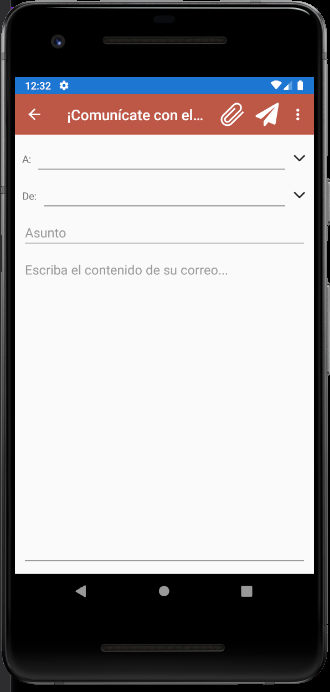
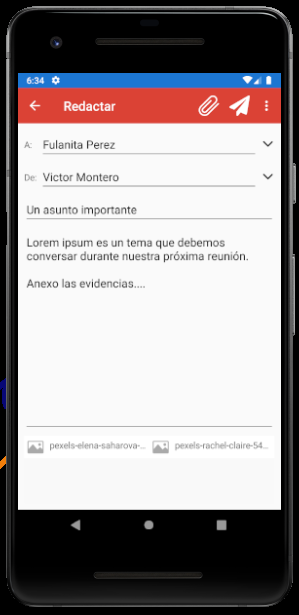
removed unnecesary layouts and updated readme

Changed region(s): [[0.0, 0.0, 1.0, 1.0], [0.5117, 0.7106, 0.8729, 0.7415], [0.0903, 0.7106, 0.4515, 0.7415]]

diff --git a/MobileDev03.VMail/MobileDev03.VMail/Views/AddMailPage.xaml b/MobileDev03.VMail/MobileDev03.VMail/Views/AddMailPage.xaml
@@ -11,46 +11,50 @@
     </ContentPage.ToolbarItems>
     <Grid Padding="10"
                     RowDefinitions="Auto,Auto,Auto,3*,*"
-                    ColumnDefinitions="*">
+                    ColumnDefinitions="Auto,*,Auto">
         <!-- Recipient Row -->
-        <StackLayout Grid.Row="0" Orientation="Horizontal" BackgroundColor="Yellow" 
-                     HorizontalOptions="FillAndExpand">
-            <Label Text="A:"
-                HorizontalOptions="Start" VerticalOptions="CenterAndExpand"/>
-            <Entry Text="{Binding Recipient}"
-                HorizontalOptions="FillAndExpand" VerticalOptions="CenterAndExpand"/>
-            <Image Source="ChevronIcon" WidthRequest="20" HeightRequest="15"
-                HorizontalOptions="End" VerticalOptions="CenterAndExpand"/>
-        </StackLayout>
+        <Label Text="A:" Grid.Row="0" Grid.Column="0"
+            HorizontalOptions="Start" VerticalOptions="CenterAndExpand"/>
+        <Entry Text="{Binding Recipient}" Grid.Row="0" Grid.Column="1"
+            HorizontalOptions="FillAndExpand" VerticalOptions="CenterAndExpand"/>
+        <Image Source="ChevronIcon" Grid.Row="0" Grid.Column="2" WidthRequest="20" HeightRequest="15"
+            HorizontalOptions="End" VerticalOptions="CenterAndExpand"/>
 
         <!-- Sender Row -->
-        <StackLayout Grid.Row="1" Orientation="Horizontal">
-            <Label Text="De:"
-                HorizontalOptions="Start" VerticalOptions="CenterAndExpand"/>
-            <Entry Text="{Binding Sender}"
-                HorizontalOptions="FillAndExpand" VerticalOptions="CenterAndExpand"/>
-            <Image Source="ChevronIcon" WidthRequest="20" HeightRequest="15"
-                HorizontalOptions="End" VerticalOptions="CenterAndExpand"/>
-        </StackLayout>
+        <Label Text="De:" Grid.Row="1" Grid.Column="0"
+            HorizontalOptions="Start" VerticalOptions="CenterAndExpand"/>
+        <Entry Text="{Binding Sender}"  Grid.Row="1" Grid.Column="1"
+            HorizontalOptions="FillAndExpand" VerticalOptions="CenterAndExpand"/>
+        <Image Source="ChevronIcon" WidthRequest="20" HeightRequest="15" Grid.Row="1" Grid.Column="2" 
+            HorizontalOptions="End" VerticalOptions="CenterAndExpand"/>
 
         <!-- Subject Row -->
-        <Entry Grid.Row="2" Placeholder="Asunto" Text="{Binding Subject}"
+        <Entry Grid.Row="2" Grid.Column="0" Grid.ColumnSpan="3" Placeholder="Asunto" Text="{Binding Subject}"
                 HorizontalOptions="FillAndExpand" VerticalOptions="CenterAndExpand"/>
+        
         <!-- Content Row -->
         <Editor
-            Grid.Row="3"
+            Grid.Row="3" Grid.Column="0" Grid.ColumnSpan="3" 
             HorizontalOptions="FillAndExpand"
             VerticalOptions="FillAndExpand"
             Text="{Binding Body}"
             Placeholder="Escriba el contenido de su correo..."/>
+        
         <!-- Attachments Field-->
-        <CollectionView Grid.Row="4" ItemsSource="{Binding Attachments}" SelectionMode="Single" VerticalOptions="End">
+        <CollectionView Grid.Row="4" Grid.Column="0" Grid.ColumnSpan="3" ItemsSource="{Binding Attachments}" SelectionMode="Single" VerticalOptions="End">
             <CollectionView.ItemsLayout>
                 <GridItemsLayout Orientation="Vertical" Span="2"/>
             </CollectionView.ItemsLayout>
             <CollectionView.ItemTemplate>
                 <DataTemplate>
-                    <SwipeView>
+                    <SwipeView BackgroundColor="White">
+                        <SwipeView.LeftItems>
+                            <SwipeItem
+                                    Text="VER"
+                                    BackgroundColor="LightGreen"
+                                    Command="{Binding Source={x:Reference addMailPage}, Path=BindingContext.ViewImageCommand}"
+                                    CommandParameter="{Binding}"/>
+                        </SwipeView.LeftItems>
                         <SwipeView.RightItems>
                             <SwipeItem
                                     Text="REMOVER"

diff --git a/MobileDev03.VMail/MobileDev03.VMail/Views/ReadMailPage.xaml b/MobileDev03.VMail/MobileDev03.VMail/Views/ReadMailPage.xaml
@@ -39,14 +39,14 @@
             </CollectionView.ItemsLayout>
             <CollectionView.ItemTemplate>
                 <DataTemplate>
-                    <SwipeView>
-                        <SwipeView.RightItems>
+                    <SwipeView BackgroundColor="White">
+                        <SwipeView.LeftItems>
                             <SwipeItem
                                     Text="VER"
                                     BackgroundColor="LightGreen"
                                     Command="{Binding Source={x:Reference readMailPage}, Path=BindingContext.ViewImageCommand}"
                                     CommandParameter="{Binding}"/>
-                        </SwipeView.RightItems>
+                        </SwipeView.LeftItems>
                         <StackLayout Orientation="Horizontal" Padding="5" Spacing="10">
                             <Image Source="ImagePlaceholder" WidthRequest="25" HeightRequest="25"/>
                             <Label Text="{Binding FileName}" LineBreakMode="TailTruncation"/>

diff --git a/MobileDev03.VMail/MobileDev03.VMail/ViewModels/AddMailViewModel.cs b/MobileDev03.VMail/MobileDev03.VMail/ViewModels/AddMailViewModel.cs
@@ -1,6 +1,6 @@
 using MobileDev03.VMail.Models;
+using MobileDev03.VMail.Views;
 using Newtonsoft.Json;
-using System.Collections.Generic;
 using System.Collections.ObjectModel;
 using System.Windows.Input;
 using Xamarin.Essentials;
@@ -13,6 +13,7 @@ namespace MobileDev03.VMail.ViewModels
         public ICommand SendMailCommand { get; }
         public ICommand AttachImageCommand { get; }
         public ICommand RemoveAttachmentCommand { get; }
+        public ICommand ViewImageCommand { get; }
 
         public string Sender { get; set; }
         public string Recipient { get; set; }
@@ -24,6 +25,7 @@ namespace MobileDev03.VMail.ViewModels
             SendMailCommand = new Command(AddMailToCollection);
             AttachImageCommand = new Command(AttachImageToEmail);
             RemoveAttachmentCommand = new Command<FileResult>(RemoveAttachment);
+            ViewImageCommand = new Command<FileResult>(GoToImageViewerPage);
         }
 
         private ObservableCollection<Mail> _mails;
@@ -48,6 +50,9 @@ namespace MobileDev03.VMail.ViewModels
             else {
                 await Application.Current.MainPage.DisplayAlert("Error", "No se pudo adjuntar la imagen correctamente.", "OK");
             }
+        }
+        private async void GoToImageViewerPage(FileResult image) {
+            await Application.Current.MainPage.Navigation.PushAsync(new ImageViewerPage(image));
         }
 
         private void RemoveAttachment(FileResult image) {

diff --git a/README.md b/README.md
@@ -19,10 +19,21 @@ En su versión **v1.0** cuenta con funcionalidades para simular la gestión de c
 
 ![Alt text](Evidences/v1.0/Delete.png?raw=true "Elimina correos")
 
-En su versión **v2.0** se actualizará el UI del sistema para imitar la presentación según el maestro, Google Mail:
+En su versión **v2.0** se actualiza el UI del sistema para imitar la presentación según el maestro, Google Mail:
 
 * Nuevo historial de correos enviados
+
 ![Alt text](Evidences/v2.0/NewUI.Home.png?raw=true "Lista correos")
 
-* Actualizada vista de creación de correos:
+* Actualizada vista de creación de correos con funciones para adjuntar una o varias imágenes:
+
 ![Alt text](Evidences/v2.0/NewUI.Compose.png?raw=true "Envia correos")
+
+* Además, cuentas con opciones para eliminar o visualizar una vista previa en pantalla completa con sólo deslizar hacia los lados:
+
+![Alt text](Evidences/v2.0/NewUI.Compose.Options.png?raw=true "Acciones con archivos adjuntos")
+![Alt text](Evidences/v2.0/NewUI.Compose.FullPreview.png?raw=true "Vista previa en pantalla completa")
+
+* **NUEVO:** Ahora tus correos se quedan guardados en tu celular aunque cierres la aplicación:
+
+![Alt text](Evidences/v2.0/NewUI.Home.Updated.png?raw=true "Persistencia de los datos")
